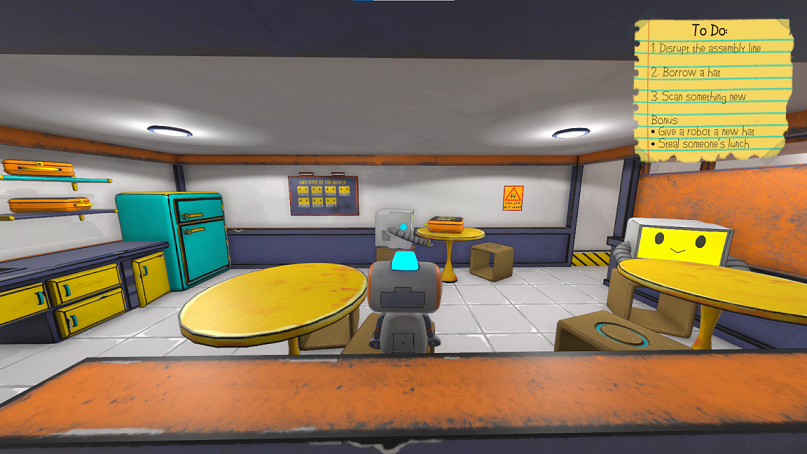
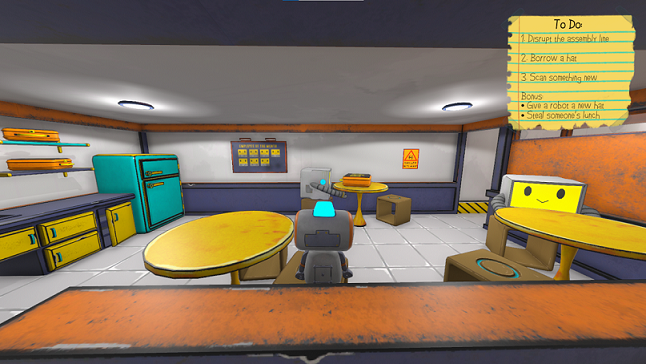
Shrunk all portfolio images to improve loading times

diff --git a/projects.html b/projects.html
@@ -175,7 +175,7 @@
             <div class="overlay-outer gameimg-container nobord">
                 <a href="#ROB">
                 <div class="overlay nobord"></div>
-                <img src="img/rob.png" width="42%">
+                <img src="img/rob-small.png" width="42%">
                  <div class="content-details fadeIn_bottom">
                     <h5 class="content-title">ROB</h5>
                     <p class="content-text">Raspberry Pi controller that can wirelessly play snake (2018).</p>
